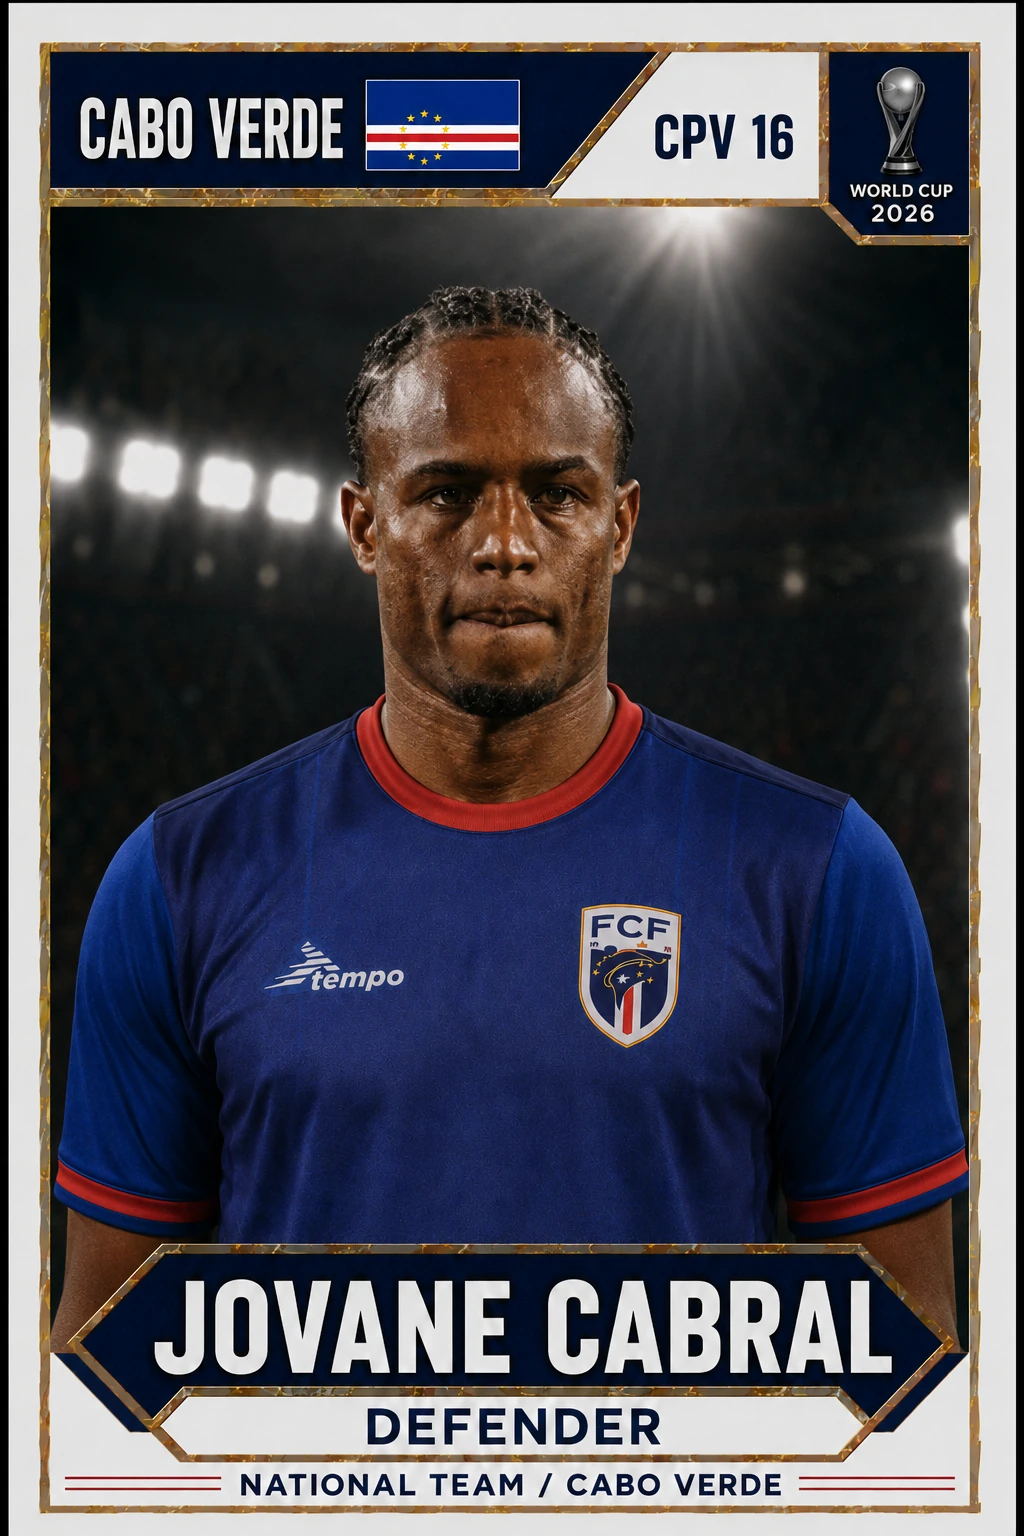
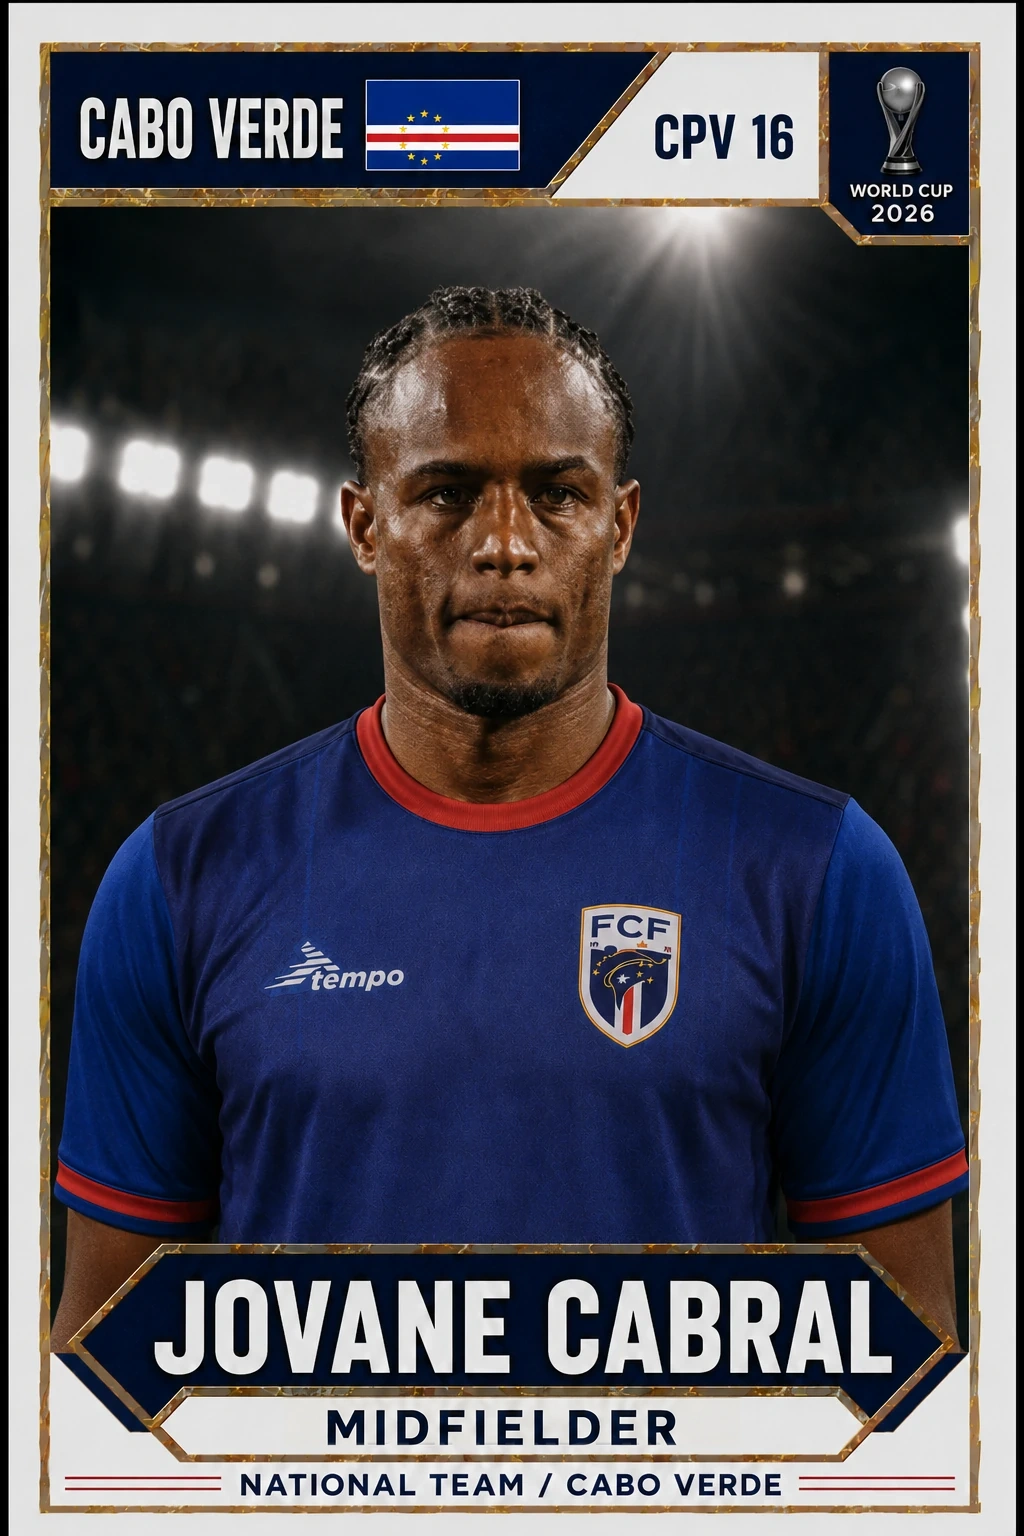
fix: позиции игрокам

Changed region(s): [[0.3125, 0.9062, 0.6562, 0.9375]]

diff --git a/scripts/replace-card-position.py b/scripts/replace-card-position.py
@@ -1,0 +1,216 @@
+#!/usr/bin/env python3
+"""Переносит исправленную позицию игрока на исходную карточку.
+
+Скрипт копирует только узкую область с позицией из отредактированного
+изображения. Поэтому лицо, форма, фон и остальные надписи всегда остаются
+пиксель-в-пиксель из исходной карточки.
+
+Пример:
+    python scripts/replace-card-position.py \
+        --source public/wc-26/cards/new-zealand/NZL-19-callum-mccowatt.webp \
+        --edited path/to/card-with-correct-position.png
+
+Если исходник находится внутри public, существующая одноимённая копия внутри
+dist обновляется автоматически. Для набора карточек команду можно вызывать
+повторно с разными парами --source/--edited.
+"""
+
+from __future__ import annotations
+
+import argparse
+import os
+from pathlib import Path
+from typing import Iterable, Sequence
+
+from PIL import Image, ImageDraw, ImageFilter
+
+
+# Внутренняя часть строки позиции на карточках WC 2026 размером 1024x1536.
+DEFAULT_BOX = (280, 1394, 744, 1450)
+REFERENCE_SIZE = (1024, 1536)
+
+
+def parse_box(values: Sequence[int]) -> tuple[int, int, int, int]:
+    x1, y1, x2, y2 = values
+    if x1 < 0 or y1 < 0 or x2 <= x1 or y2 <= y1:
+        raise argparse.ArgumentTypeError(
+            "box должен иметь формат X1 Y1 X2 Y2 и положительную площадь"
+        )
+    return x1, y1, x2, y2
+
+
+def build_parser() -> argparse.ArgumentParser:
+    parser = argparse.ArgumentParser(
+        description="Заменяет только надпись позиции на карточке WebP/PNG/JPEG."
+    )
+    parser.add_argument("--source", required=True, type=Path, help="Исходная карточка")
+    parser.add_argument(
+        "--edited",
+        required=True,
+        type=Path,
+        help="Карточка с уже исправленной позицией",
+    )
+    parser.add_argument(
+        "--output",
+        type=Path,
+        help="Выходной файл; по умолчанию безопасно заменяет --source",
+    )
+    parser.add_argument(
+        "--box",
+        nargs=4,
+        type=int,
+        metavar=("X1", "Y1", "X2", "Y2"),
+        default=DEFAULT_BOX,
+        help="Область позиции для карточки 1024x1536; масштабируется автоматически",
+    )
+    parser.add_argument(
+        "--edited-box",
+        nargs=4,
+        type=int,
+        metavar=("X1", "Y1", "X2", "Y2"),
+        help="Отдельная область позиции на эталоне, если строка находится на другой высоте",
+    )
+    parser.add_argument(
+        "--feather",
+        type=float,
+        default=2.0,
+        help="Растушёвка края области в пикселях; по умолчанию 2",
+    )
+    parser.add_argument(
+        "--no-sync-dist",
+        action="store_true",
+        help="Не обновлять одноимённую копию в dist для исходника из public",
+    )
+    return parser
+
+
+def scaled_box(
+    box: tuple[int, int, int, int], size: tuple[int, int]
+) -> tuple[int, int, int, int]:
+    if size == REFERENCE_SIZE:
+        return box
+    scale_x = size[0] / REFERENCE_SIZE[0]
+    scale_y = size[1] / REFERENCE_SIZE[1]
+    return (
+        round(box[0] * scale_x),
+        round(box[1] * scale_y),
+        round(box[2] * scale_x),
+        round(box[3] * scale_y),
+    )
+
+
+def make_mask(size: tuple[int, int], feather: float) -> Image.Image:
+    if feather <= 0:
+        return Image.new("L", size, 255)
+
+    inset = max(3, round(feather * 2))
+    if inset * 2 >= min(size):
+        raise ValueError("Слишком большая растушёвка для выбранной области")
+
+    mask = Image.new("L", size, 0)
+    ImageDraw.Draw(mask).rectangle(
+        (inset, inset, size[0] - inset - 1, size[1] - inset - 1),
+        fill=255,
+    )
+    return mask.filter(ImageFilter.GaussianBlur(feather))
+
+
+def save_image(image: Image.Image, destination: Path) -> None:
+    destination.parent.mkdir(parents=True, exist_ok=True)
+    suffix = destination.suffix.lower()
+    if suffix == ".webp":
+        image.save(destination, "WEBP", quality=95, method=6)
+    elif suffix == ".png":
+        image.save(destination, "PNG", optimize=True)
+    elif suffix in {".jpg", ".jpeg"}:
+        image.save(destination, "JPEG", quality=95, subsampling=0)
+    else:
+        raise ValueError("Поддерживаются выходные форматы WebP, PNG и JPEG")
+
+
+def atomic_save(image: Image.Image, destination: Path) -> None:
+    temporary = destination.with_name(
+        f".{destination.stem}.position-tmp{destination.suffix}"
+    )
+    try:
+        save_image(image, temporary)
+        os.replace(temporary, destination)
+    finally:
+        if temporary.exists():
+            temporary.unlink()
+
+
+def find_dist_mirror(source: Path) -> Path | None:
+    resolved = source.resolve()
+    parts = resolved.parts
+    public_indexes = [index for index, part in enumerate(parts) if part == "public"]
+    if not public_indexes:
+        return None
+    index = public_indexes[-1]
+    mirror = Path(*parts[:index], "dist", *parts[index + 1 :])
+    return mirror if mirror.exists() else None
+
+
+def unique_destinations(paths: Iterable[Path]) -> list[Path]:
+    result: list[Path] = []
+    seen: set[Path] = set()
+    for path in paths:
+        resolved = path.resolve()
+        if resolved not in seen:
+            result.append(path)
+            seen.add(resolved)
+    return result
+
+
+def main() -> None:
+    args = build_parser().parse_args()
+    source_path = args.source.resolve()
+    edited_path = args.edited.resolve()
+
+    with Image.open(source_path) as source_file:
+        source = source_file.convert("RGB")
+        source.load()
+    with Image.open(edited_path) as edited_file:
+        edited = edited_file.convert("RGB")
+        edited.load()
+
+    if source.size != edited.size and args.edited_box is None:
+        source_ratio = source.width / source.height
+        edited_ratio = edited.width / edited.height
+        ratio_delta = abs(source_ratio - edited_ratio) / source_ratio
+        if ratio_delta > 0.02:
+            raise ValueError(
+                "Пропорции изображений слишком сильно различаются: "
+                f"{source.size} и {edited.size}"
+            )
+    box = scaled_box(parse_box(args.box), source.size)
+    if box[2] > source.width or box[3] > source.height:
+        raise ValueError(f"Область {box} выходит за границы изображения {source.size}")
+
+    edited_box_values = args.edited_box or args.box
+    edited_box = scaled_box(parse_box(edited_box_values), edited.size)
+    if edited_box[2] > edited.width or edited_box[3] > edited.height:
+        raise ValueError(
+            f"Область эталона {edited_box} выходит за границы изображения {edited.size}"
+        )
+
+    patch = edited.crop(edited_box)
+    target_size = (box[2] - box[0], box[3] - box[1])
+    if patch.size != target_size:
+        patch = patch.resize(target_size, Image.Resampling.LANCZOS)
+    source.paste(patch, box[:2], make_mask(patch.size, args.feather))
+
+    output = args.output.resolve() if args.output else source_path
+    destinations = [output]
+    if not args.output and not args.no_sync_dist:
+        mirror = find_dist_mirror(source_path)
+        if mirror is not None:
+            destinations.append(mirror)
+
+    for destination in unique_destinations(destinations):
+        atomic_save(source, destination)
+        print(destination)
+
+
+if __name__ == "__main__":
+    main()
